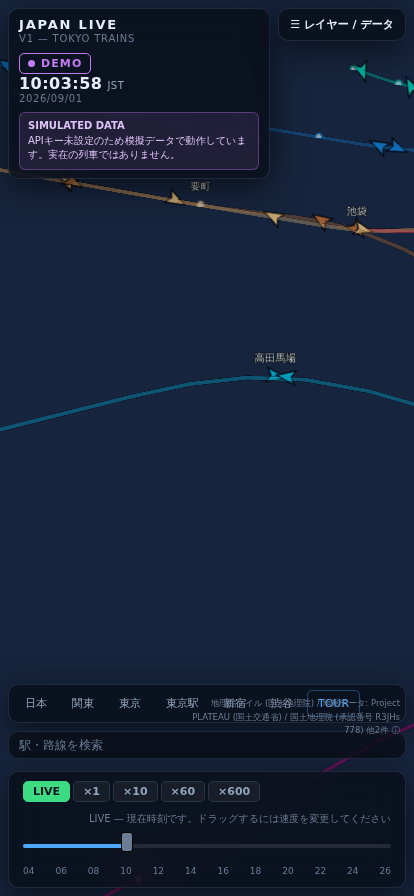
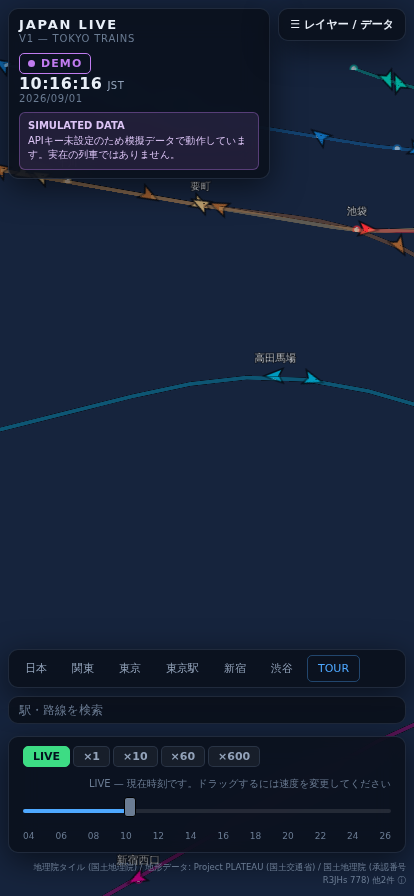
test: separate assertion suites from screenshot capture
Screenshot capture asserts nothing — it exists so a human can look at the
product. It now runs only with CAPTURE=1 and clicks a train by asking the scene
where one actually is on screen, rather than spiralling outward across the
canvas hoping to land on a primitive, which is what made it slow enough to time
out. CI runs the smoke, render, live-path and mobile suites.

Claude-Session: https://claude.ai/code/session_01Lb3T7Gt2kQtCB7jHYM4sAw

diff --git a/e2e/screenshots.spec.ts b/e2e/screenshots.spec.ts
@@ -11,6 +11,10 @@ const OUT = "screenshots";
 
 // Capturing the whole experience involves many camera flights and tile settles.
 test.setTimeout(300_000);
+
+// These produce images for a human to look at; they assert nothing. CI runs the
+// smoke, render, live-path and mobile suites instead. Run with CAPTURE=1.
+test.skip(!process.env.CAPTURE, "set CAPTURE=1 to regenerate screenshots");
 test.beforeAll(() => mkdirSync(OUT, { recursive: true }));
 
 async function boot(page: Page) {
@@ -84,22 +88,39 @@ test("capture the inspector by clicking a train", async ({ page }) => {
   await page.getByRole("button", { name: "東京駅", exact: true }).click();
   await settle(page, 9_000);
 
-  // Trains are primitives, so find one by probing the canvas rather than by selector.
+  // Trains are primitives, not DOM nodes, so ask the scene where one is on screen and
+  // click there rather than probing the canvas blindly.
   const canvas = page.locator(".cesium-widget canvas");
   const box = (await canvas.boundingBox())!;
   let found = false;
 
-  for (let ring = 0; ring < 14 && !found; ring++) {
-    const r = 28 + ring * 26;
-    for (let a = 0; a < 12 && !found; a++) {
-      const angle = (a / 12) * Math.PI * 2;
-      await page.mouse.click(
-        box.x + box.width / 2 + Math.cos(angle) * r,
-        box.y + box.height / 2 + Math.sin(angle) * r,
-      );
-      await page.waitForTimeout(90);
-      found = (await page.locator(".inspector").count()) > 0;
-    }
+  for (let attempt = 0; attempt < 25 && !found; attempt++) {
+    const point = await page.evaluate((index) => {
+      const v = (window as unknown as { __viewer?: any }).__viewer;
+      if (!v) return null;
+      const Cesium = (window as any).Cesium;
+      const collections = [];
+      for (let i = 0; i < v.scene.primitives.length; i++) {
+        const p = v.scene.primitives.get(i);
+        if (p && typeof p.length === "number" && typeof p.get === "function") collections.push(p);
+      }
+      for (const c of collections) {
+        for (let i = index; i < c.length; i++) {
+          const item = c.get(i);
+          if (!item?.show || !item.position) continue;
+          const win = Cesium
+            ? Cesium.SceneTransforms.worldToWindowCoordinates(v.scene, item.position)
+            : v.scene.cartesianToCanvasCoordinates(item.position);
+          if (win && win.x > 40 && win.y > 40) return { x: win.x, y: win.y };
+        }
+      }
+      return null;
+    }, attempt);
+
+    if (!point) break;
+    await page.mouse.click(box.x + point.x, box.y + point.y);
+    await page.waitForTimeout(220);
+    found = (await page.locator(".inspector").count()) > 0;
   }
 
   if (found) {

diff --git a/apps/web/src/scene/controller.ts b/apps/web/src/scene/controller.ts
@@ -110,7 +110,9 @@ export class SceneController {
     });
 
     if (new URLSearchParams(location.search).has("debug")) {
-      (window as unknown as { __viewer?: Cesium.Viewer }).__viewer = this.viewer;
+      const w = window as unknown as { __viewer?: Cesium.Viewer; Cesium?: typeof Cesium };
+      w.__viewer = this.viewer;
+      w.Cesium = Cesium;
     }
   }
 
